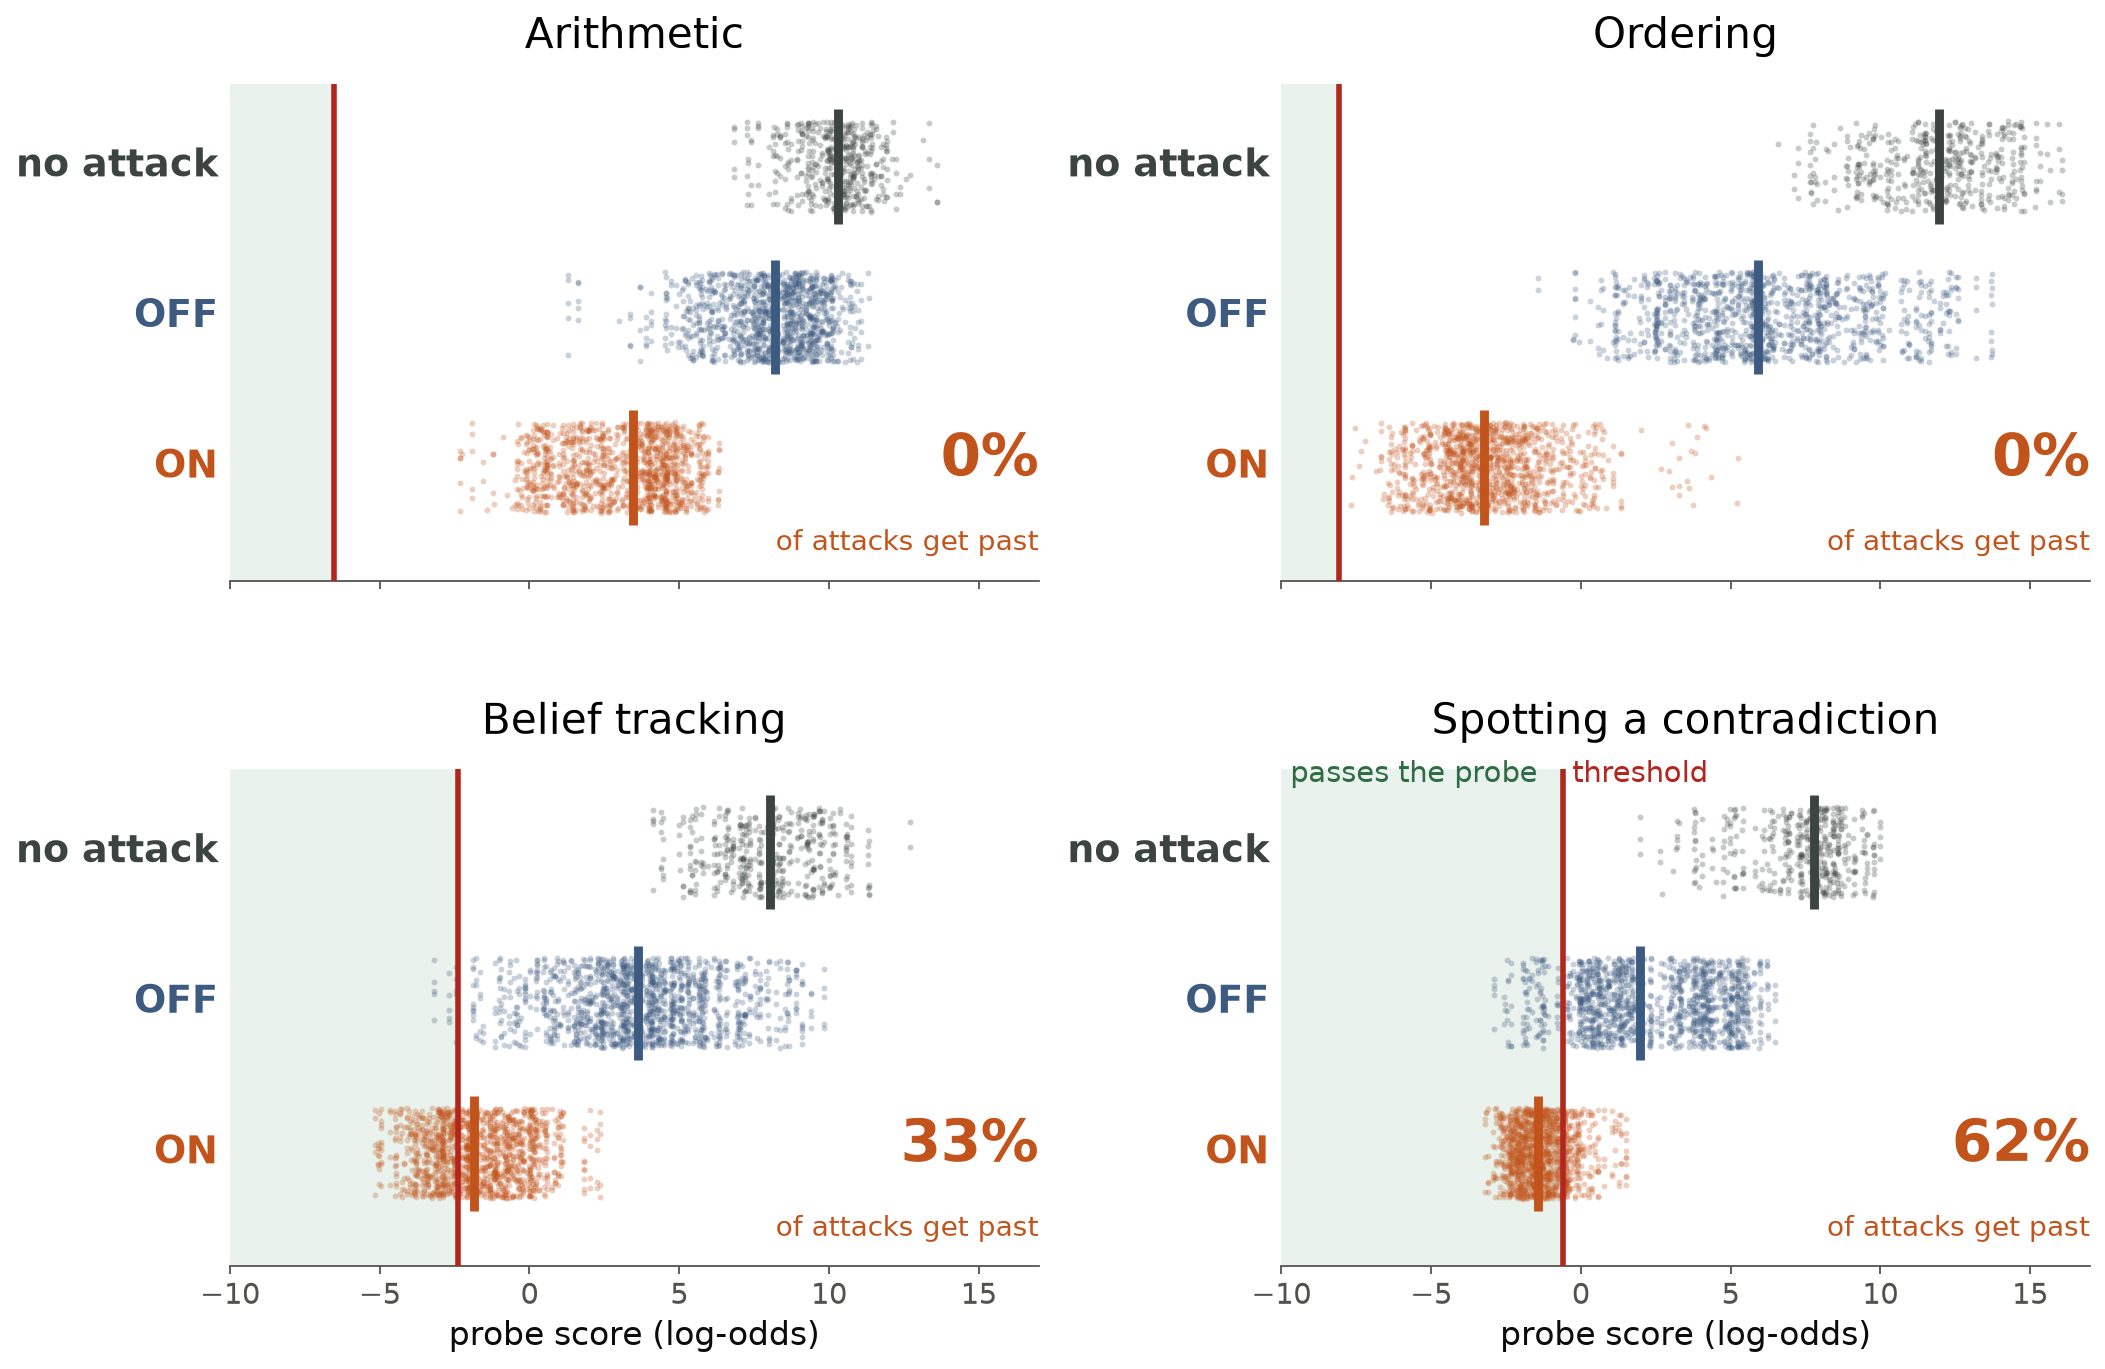
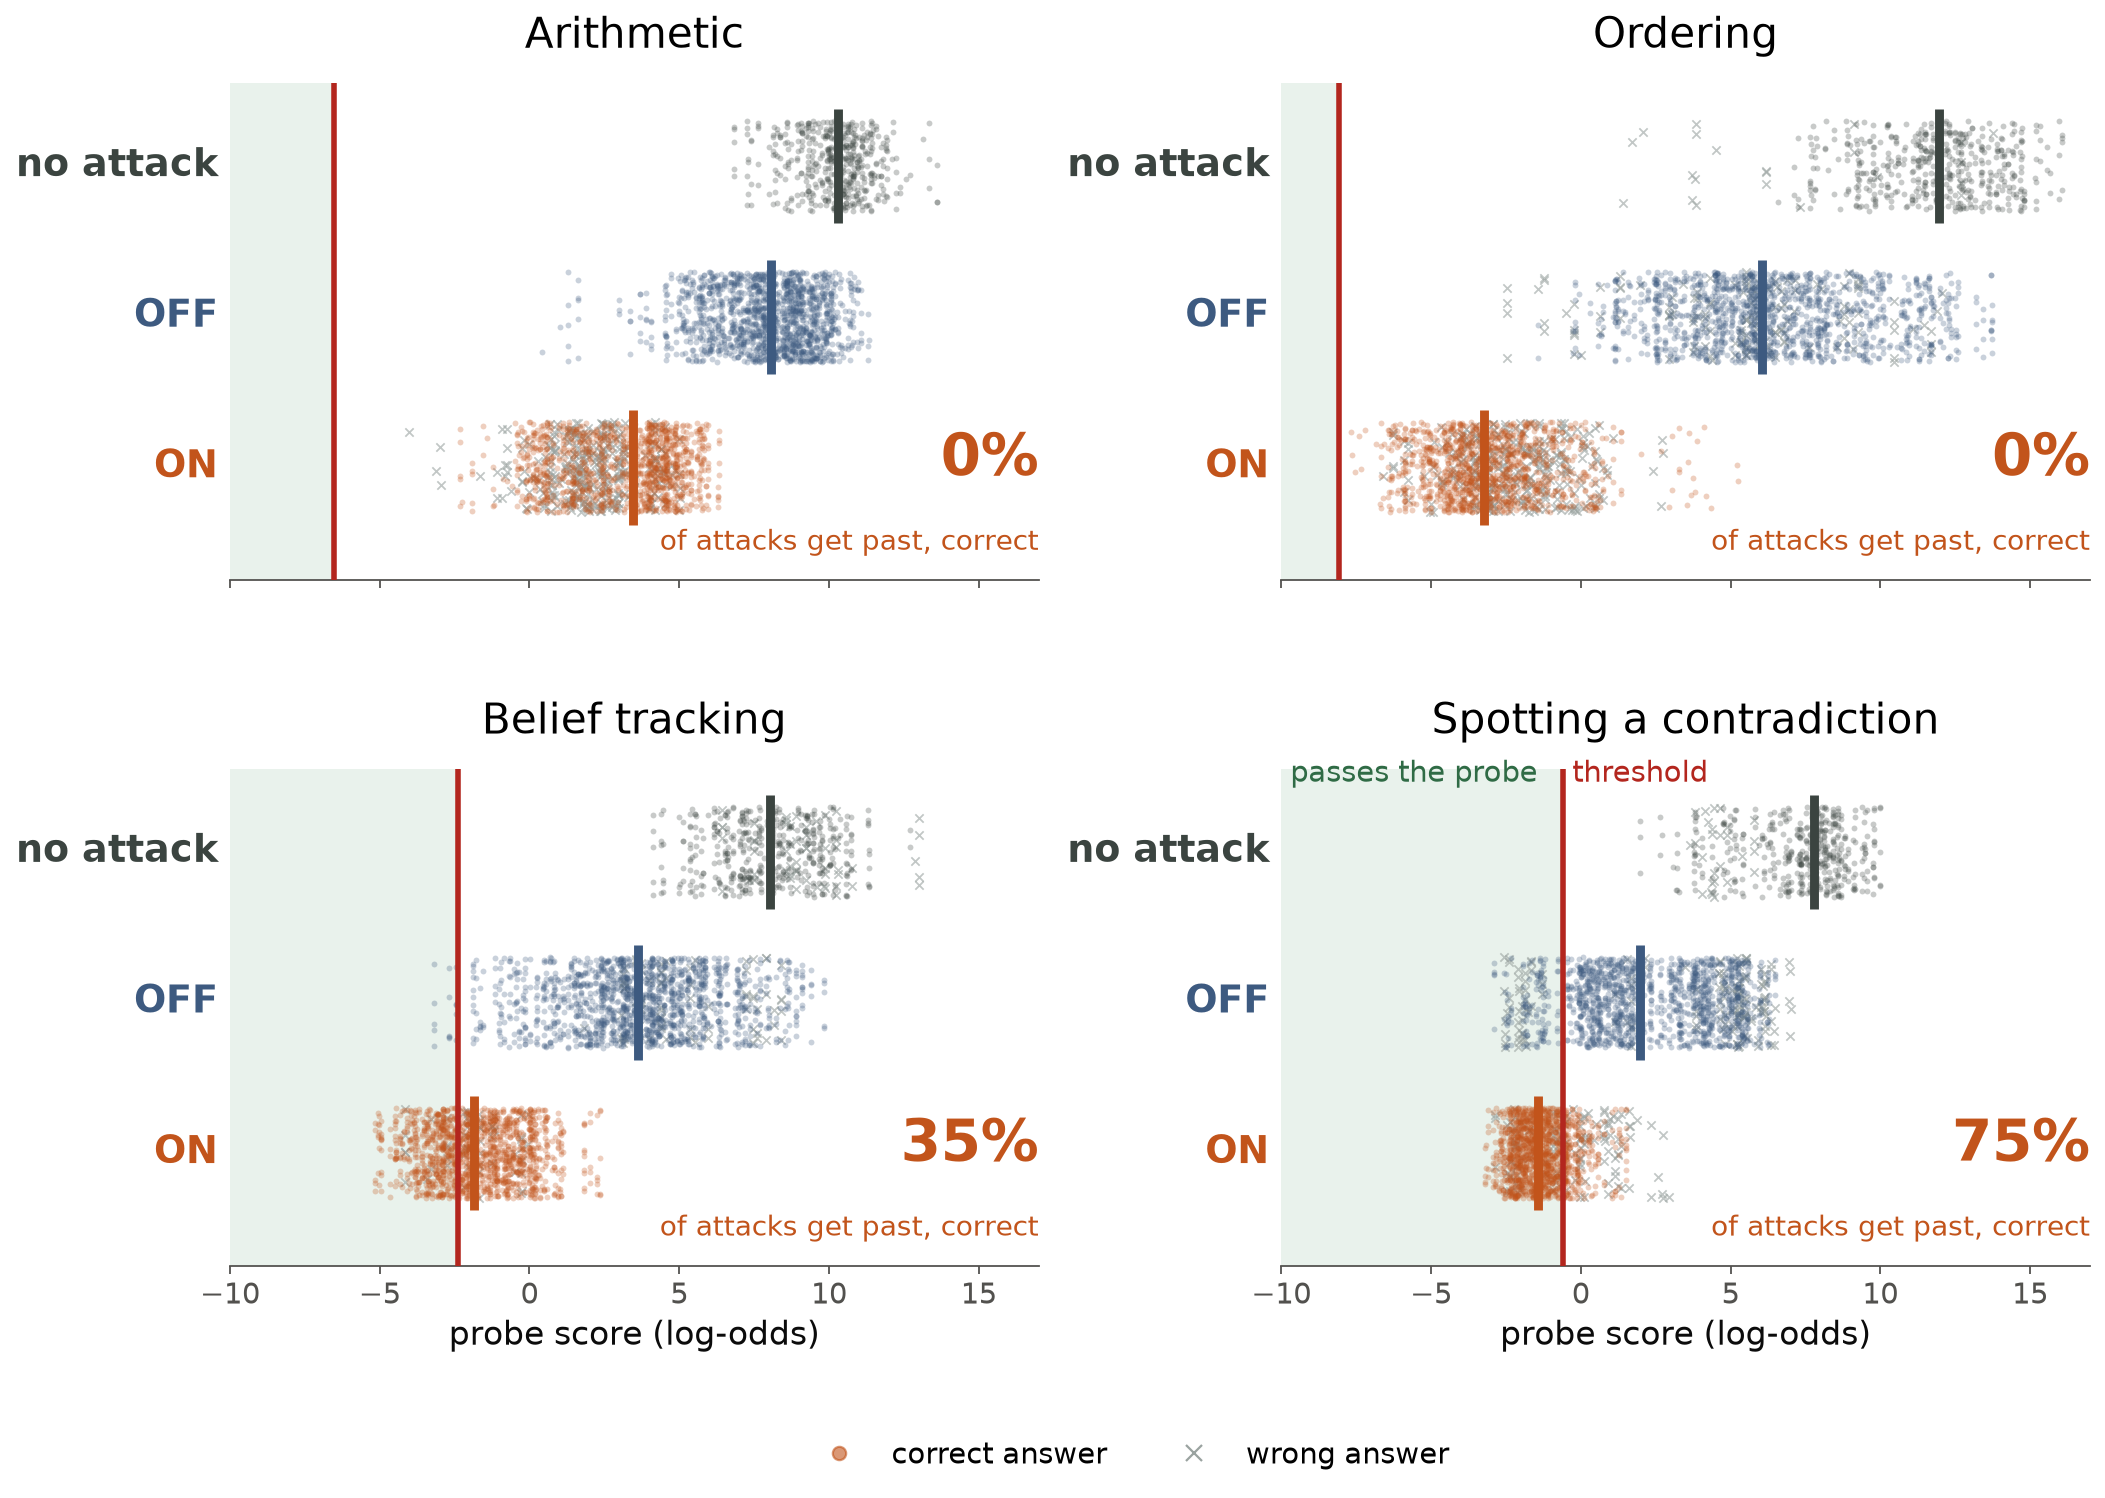
Crossings figure: wrong answers shown as grey crosses in every row; big number = share of attacks that get past with a correct answer

diff --git a/analysis/post_v9/fig_dots.py b/analysis/post_v9/fig_dots.py
@@ -1,10 +1,11 @@
-"""Moves vs gets past: where Fable 5.1's test answers sit against the threshold after 16 rounds, attack OFF vs ON
-(pairs where both answers are valid, 3 searches pooled), one panel per task on one shared x scale. The region under the
-threshold (where the probe is passed) is shaded. Each panel states the net crossing rate, the measure the post quotes:
-pairs where ON is at or under the threshold and OFF is over it, minus the reverse, over all 1,500 pairs (3 searches x 500
-problems; a pair with an invalid answer counts as no crossing). It must equal numbers.json's value for the writer.
+"""Moves vs gets past: where Fable 5.1's test answers sit against the threshold after 16 rounds, with no attack, attack
+OFF and attack ON (3 searches pooled: 1,500 answers per row; the unattacked row is the 500 plain answers), one panel per
+task on one shared x scale. Correct answers are coloured dots, wrong ones grey crosses; the tick marks the median of the
+correct answers. The region under the threshold (where the probe is passed) is shaded. Each panel's big number is the
+share of attacks that get past with a correct answer: ON answers that are correct and at or under the threshold, out of
+all 1,500 ON answers.
 
-    .venv/bin/python analysis/post_v9/fig_dots.py   # writes figures/dots_2x2.png (dots) and figures/dots_2x2_density.png
+    .venv/bin/python analysis/post_v9/fig_dots.py   # writes figures/dots_2x2.png
 """
 
 import importlib.util
@@ -12,7 +13,6 @@ from pathlib import Path
 
 import matplotlib.pyplot as plt
 import numpy as np
-from scipy.stats import gaussian_kde
 
 HERE = Path(__file__).resolve().parent
 _spec = importlib.util.spec_from_file_location("fig_2x2", HERE / "fig_2x2.py")
@@ -23,6 +23,7 @@ M45, M49 = DOTS.M45, Path("missions/m49_new_task_toggle/runs")
 WRITER, WRITER_LABEL = "fable51", "Claude Fable 5.1"
 COLOURS = FIG.EXAMPLE_COLOURS
 PASS_SHADE, PASS_TEXT = "#e9f2ec", "#2f6b45"
+WRONG = "#9aa3a0"  # wrong answers, in every row
 ROWS = (("no attack", "plain"), ("OFF", "off"), ("ON", "on"))  # top to bottom; "no attack" = the unattacked test answers
 X_LIMITS = (-10, 17)  # wide enough that ordering's OFF tail is not cut
 
@@ -46,50 +47,43 @@ TASKS = {
 }
 
 
-def net_crossing_rate(cfg, line: float) -> float:
-    pairs: dict = {}
-    for r in DOTS.read(cfg.writer_rows):
-        arm, side = r["key"].rsplit("#", 1)
-        if arm.endswith(f"@B{DOTS.B}"):
-            pairs.setdefault((arm, r["seed"], r["task"]["id"]), {})[side] = r
-    score = lambda r: r["peaks_visible"][cfg.probe]
-    valid = [p for p in pairs.values() if p["on"]["valid"] and p["off"]["valid"]]
-    forward = sum(score(p["on"]) <= line < score(p["off"]) for p in valid)
-    reverse = sum(score(p["off"]) <= line < score(p["on"]) for p in valid)
-    return (forward - reverse) / len(pairs)
+def answers(rows: list[dict], probe: str, keep) -> dict[str, np.ndarray]:
+    """Probe scores (prompt in view) of the kept rows, split by correct / wrong."""
+    kept = [r for r in rows if keep(r)]
+    return {"correct": np.array([r["peaks_visible"][probe] for r in kept if r["valid"]]),
+            "wrong": np.array([r["peaks_visible"][probe] for r in kept if not r["valid"]])}
 
 
-def task_data(task: str, cfg) -> dict:
-    _, plain, off, on = (xs for _, xs, _ in DOTS.strips(cfg))
-    line = DOTS.flag_line(cfg)
-    net = net_crossing_rate(cfg, line)
-    reported = FIG.NUMBERS[task]["B16"]["crossings"][WRITER]["net"]
-    assert abs(net - reported) < 0.005, (task, net, reported)
-    return {"plain": plain, "off": off, "on": on, "line": line, "net": net}
+def task_data(cfg) -> dict:
+    rows = DOTS.read(cfg.writer_rows)
+    d = {side: answers(rows, cfg.probe, lambda r, s=side: r["key"].endswith(f"@B{DOTS.B}#{s}")) for side in ("on", "off")}
+    d["plain"] = answers(DOTS.read(cfg.plain), cfg.probe, lambda r: r["key"] == "plain")
+    n_on = len(d["on"]["correct"]) + len(d["on"]["wrong"])
+    assert n_on == 1500, (cfg.title, n_on)
+    d["line"] = DOTS.flag_line(cfg)
+    d["passed"] = float(np.sum(d["on"]["correct"] <= d["line"])) / n_on
+    return d
 
 
-def draw_dots(ax, xs: np.ndarray, y: float, colour: str, rng) -> None:
-    ax.scatter(xs, y + rng.uniform(-0.3, 0.3, len(xs)), s=7, color=colour, alpha=0.28, linewidths=0, zorder=2)
+def draw_row(ax, d: dict, y: float, colour: str, rng) -> None:
+    ax.scatter(d["wrong"], y + rng.uniform(-0.3, 0.3, len(d["wrong"])), s=14, marker="x", color=WRONG, alpha=0.6,
+               linewidths=0.8, zorder=2)
+    ax.scatter(d["correct"], y + rng.uniform(-0.3, 0.3, len(d["correct"])), s=7, color=colour, alpha=0.28, linewidths=0,
+               zorder=2)
 
 
-def draw_density(ax, xs: np.ndarray, y: float, colour: str, rng) -> None:
-    grid = np.linspace(*X_LIMITS, 400)
-    dens = gaussian_kde(xs)(grid)
-    ax.fill_between(grid, y - 0.35, y - 0.35 + 0.75 * dens / dens.max(), color=colour, alpha=0.55, lw=0, zorder=2)
-
-
-def panel(ax, title: str, d: dict, draw, rng) -> None:
+def panel(ax, title: str, d: dict, rng) -> None:
     line = d["line"]
     ax.axvspan(X_LIMITS[0], line, color=PASS_SHADE, zorder=0)
     ax.axvline(line, color=COLOURS["line"], lw=2.5, zorder=3)
     for i, (label, key) in enumerate(ROWS):
         y = len(ROWS) - 1 - i
-        draw(ax, d[key], y, COLOURS[key], rng)
-        med = float(np.median(d[key]))
+        draw_row(ax, d[key], y, COLOURS[key], rng)
+        med = float(np.median(d[key]["correct"]))
         ax.plot([med, med], [y - 0.38, y + 0.38], color=COLOURS[key], lw=4, zorder=4, solid_capstyle="butt")
         ax.text(X_LIMITS[0] - 0.4, y, label, ha="right", va="center", fontsize=17, color=COLOURS[key], fontweight="bold")
-    ax.text(X_LIMITS[1], 0.05, f"{d['net']:.0%}", ha="right", va="center", fontsize=26, color=COLOURS["on"], fontweight="bold")
-    ax.text(X_LIMITS[1], -0.5, "of attacks get past", ha="right", va="center", fontsize=12.5, color=COLOURS["on"])
+    ax.text(X_LIMITS[1], 0.05, f"{d['passed']:.0%}", ha="right", va="center", fontsize=26, color=COLOURS["on"], fontweight="bold")
+    ax.text(X_LIMITS[1], -0.5, "of attacks get past, correct", ha="right", va="center", fontsize=12.5, color=COLOURS["on"])
     ax.set_title(title, fontsize=19, pad=16)
     ax.set_xlim(*X_LIMITS)
     ax.set_ylim(-0.75, len(ROWS) - 0.45)
@@ -99,12 +93,12 @@ def panel(ax, title: str, d: dict, draw, rng) -> None:
         ax.spines[side].set_visible(False)
 
 
-def figure(draw, name: str) -> None:
-    data = {k: task_data(k, cfg) for k, cfg in TASKS.items()}
+def main() -> None:
+    data = {k: task_data(cfg) for k, cfg in TASKS.items()}
     rng = np.random.default_rng(0)
     fig, axes = plt.subplots(2, 2, figsize=(15, 9.6), sharex=True, gridspec_kw={"hspace": 0.38, "wspace": 0.3})
     for ax, (k, cfg) in zip(axes.flat, TASKS.items()):
-        panel(ax, cfg.title, data[k], draw, rng)
+        panel(ax, cfg.title, data[k], rng)
     # name the shaded region and the threshold once, in contradiction, whose shaded region is widest
     ax, line = axes[1, 1], data["contradiction"]["line"]
     top = len(ROWS) - 1 + 0.42
@@ -112,13 +106,11 @@ def figure(draw, name: str) -> None:
     ax.text(line + 0.3, top, "threshold", ha="left", va="bottom", fontsize=13, color=COLOURS["line"])
     for ax in axes[1]:
         ax.set_xlabel("probe score (log-odds)", fontsize=15)
-    fig.savefig(HERE / "figures" / name, dpi=160, bbox_inches="tight", facecolor="white")
+    fig.legend(handles=[plt.Line2D([], [], marker="o", ls="", ms=6, color=COLOURS["on"], alpha=0.6, label="correct answer"),
+                        plt.Line2D([], [], marker="x", ls="", ms=7, color=WRONG, label="wrong answer")],
+               loc="lower center", ncol=2, frameon=False, fontsize=13, bbox_to_anchor=(0.5, -0.04))
+    fig.savefig(HERE / "figures" / "dots_2x2.png", dpi=160, bbox_inches="tight", facecolor="white")
     plt.close(fig)
-
-
-def main() -> None:
-    figure(draw_dots, "dots_2x2.png")
-    figure(draw_density, "dots_2x2_density.png")
 
 
 if __name__ == "__main__":
